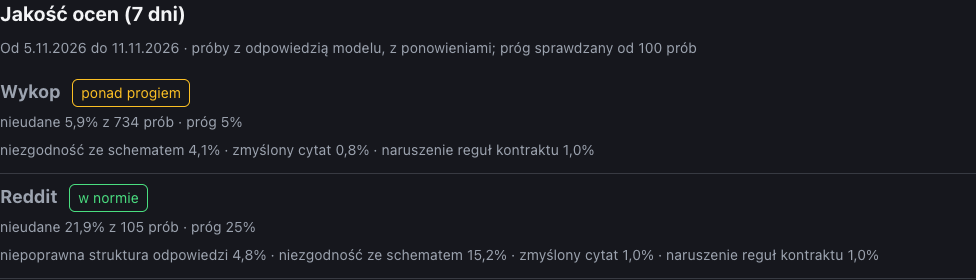
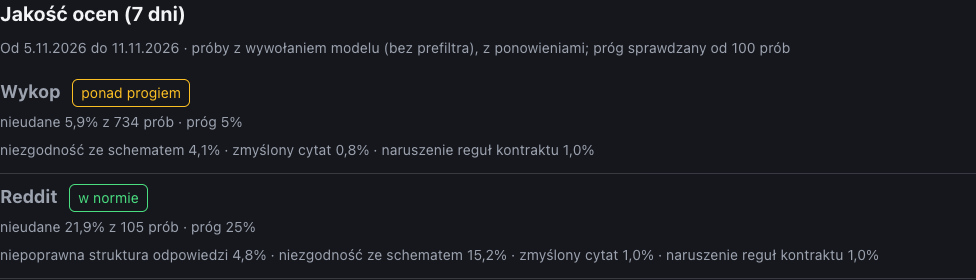
docs(per-source-failure-quality): zrzuty sekcji po F2 i akceptacja właściciela
- evidence/ui: 20 zrzutów z mocka ponownie (nowe słowa "próby z wywołaniem
  modelu (bez prefiltra)"); error/loading bez zmian treści
- evidence/pr-env: 3 zrzuty z PR env #166 (API d14f053)
- plan.md: 4.5 i 4.6 zaakceptowane przez właściciela 2026-11-11

Refs: #145

Claude-Session: https://claude.ai/code/session_01HDNxSLaLf3X4Q5A8BWjMo9

Changed region(s): [[0.2459, 0.1429, 0.8299, 0.2]]

diff --git a/context/changes/per-source-failure-quality/evidence/pr-env/README.md b/context/changes/per-source-failure-quality/evidence/pr-env/README.md
@@ -2,6 +2,8 @@
 
 PR env `szczur-radar-pr-166`, every service deployed from `cb55f3d`. Secrets (activation link, password, session cookie, trigger token, ntfy topic) stayed in shell variables and scratchpad files outside the repo; none is in this folder.
 
+The three `quality-section-*.png` were retaken 2026-11-11 after review F2 (new wording "próby z wywołaniem modelu (bez prefiltra), z ponowieniami") on the PR env at commit d14f053 (API deployment `SUCCESS`; the web build of 76f2952 still served, `SKIPPED` at d14f053 with no web change between them), with the same admin after `reset-password`.
+
 ## Steps
 
 1. One-time admin (lesson "W PR env agent sam zakłada jednorazowe konto admina…"): `railway ssh -s szczur-radar-api -e szczur-radar-pr-166 -- java -jar /app/target/szczur-radar-api.jar create-user --email agent-per-source-failure-quality@example.com --role admin`, link captured into a shell variable, random password from `openssl rand`, `POST /api/auth/activation` → 204, `POST /api/auth/login` (header `Origin`) → 200, cookie jar in the scratchpad.

diff --git a/context/changes/per-source-failure-quality/evidence/ui/README.md b/context/changes/per-source-failure-quality/evidence/ui/README.md
@@ -6,6 +6,8 @@ section element only (`section[aria-labelledby="quality-title"]`), in both theme
 1280 px and 375 px. File name: `quality-<variant>-<theme>-<width>.png`. At 375 px the page has no horizontal scroll
 (`scrollWidth` 375 = `innerWidth`).
 
+Retaken 2026-11-11 after review F2 (new wording "próby z wywołaniem modelu (bez prefiltra), z ponowieniami"), on the mock at commit d14f053; the `error` and `loading` shots came out byte-identical (that line is not shown in those states).
+
 | State | Screenshots | Notes |
 | --- | --- | --- |
 | default | `quality-data-{light,dark}-{1280,375}.png`, `quality-few-{light,dark}-{1280,375}.png` | `data`: Wykop `w normie` (success), Reddit `ponad progiem` (warning); `few`: Reddit `za mało prób` (neutral). Window, share of failed attempts with the number of attempts, class shares with their labels, threshold. |

diff --git a/context/changes/per-source-failure-quality/plan.md b/context/changes/per-source-failure-quality/plan.md
@@ -338,5 +338,5 @@ V14 tylko dodaje indeks (`CREATE INDEX`, nie `CONCURRENTLY` — Flyway w transak
 
 #### Manual
 
-- [ ] 4.5 Właściciel akceptuje format linii jakości i opis `ASSESSMENT_QUALITY`
-- [ ] 4.6 Właściciel akceptuje wygląd i słowa sekcji „Jakość ocen (7 dni)”
+- [x] 4.5 Właściciel akceptuje format linii jakości i opis `ASSESSMENT_QUALITY` — zaakceptowane przez właściciela 2026-11-11
+- [x] 4.6 Właściciel akceptuje wygląd i słowa sekcji „Jakość ocen (7 dni)” — zaakceptowane przez właściciela 2026-11-11 (zrzuty po F2)
